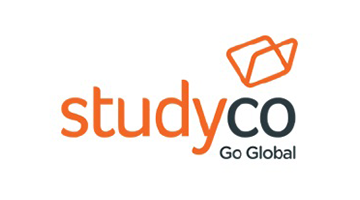
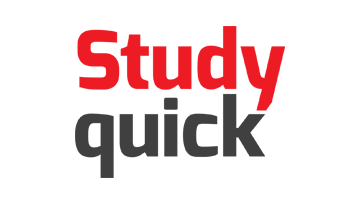
Add files via upload

Changed region(s): [[0.1528, 0.12, 0.825, 0.9]]

diff --git a/index.html b/index.html
@@ -7,7 +7,7 @@
 
 <!-- Favicons -->
 
-<link rel="shortcut icon" href="favicon.png">
+<link rel="shortcut icon" href="">
 <link rel="apple-touch-icon" href="apple-touch-icon.png">
 <link rel="apple-touch-icon" sizes="72x72" href="apple-touch-icon-72x72.png">
 <link rel="apple-touch-icon" sizes="114x114" href="apple-touch-icon-114x114.png">
@@ -57,7 +57,7 @@
 					<div class="container">
 	   		<div class="row">
 	   			<div class="col-md-12">
-	   		<img src="img/mainlogo.png" class="img-fluid" style="max-width: 100%;">
+	   		<img src="img/mainlogo.png" class="img-fluid" style="max-width: 100%;" width="400px" height="200px">
 	   		</div>
 	   	</div>
 	   	</div>
@@ -72,7 +72,7 @@
 				      	
 				      	<h2 style="text-align: center;">About&nbspUs</h2>
 				        	<div class="delimiter"><div></div></div>
-				        	<p class="font-weight-normal" style="text-align: center;">An Edu-services Group with an enviable national and international reputation, Shaheen stands tall as a leading beacon for innumerable students across India and elsewhere. Touching and transforming the many lives of students coming under its care and shaping their dreams into concrete realities, Shaheen Group is best known for its extraordinary quality coaching for NEET and other competitive/qualifying exams. Ever since its inception in 1989, owing to its innovation, learner-centric approach and irrefutable commitment Shaheen has grown exponentially: today the Group is a much acclaimed Learning Platform and a force to reckon with, in the Eduscape nationally and globally. With 50 centers across India and a little over 20000 students on roll, the Group is tirelessly marching along the path of excellence and success.<br><br>The Group has strong academic, philosophical and spiritual moorings, drawing its inspiration from the monumental works of the much celebrated poet Allama Iqbal, popularly known as The Poet of the East. Under the inspiring and dynamic leadership of Dr Abdul Qadeer, the Group aspires to orchestrate a magical transformation of the society, by empowering students with quality education, life-skills and positive orientation towards Life. Like the mythical bird Shaheen that appears in the work of Allama Iqbal, the Group constantly moves with tenacity of purpose, seeking and conquering new heights of excellence and glory.<br><br>In a nutshell, to call Shaheen as an Edu-services Group may not be fully correct.A Movement for empowering the academic community to embrace a life of nobility, excellence and success.
+				        	<p class="font-weight-normal" style="text-align: center;">
             </p>
 
 				         
@@ -104,8 +104,8 @@
 					      		
 
 					      		<figure class="team-profile-2"><a href="/shaheen-global">
-					      			<button class="btn btn-danger" style="background-color: red; padding: 11px 15px 0;">ADMISSION STARTED</button>
-					      			<div class="image-holder"><img alt="shaheen" src="img/shaheen.png" height="200px" style="border: solid; border-color: darkgray;"></div>
+					      			<button class="btn btn-danger" style="background-color: red; padding: 8px 15px 0;" id="adm">ADMISSION STARTED</button>
+					      			<div class="image-holder"><img alt="shaheen" src="img/shaheen.png" height="200px" style="border: solid; border-color: darkgray; border-width: 1px;"></div>
 					      			<figcaption>
 					      				<div class="profile-info">
 						      				<h3 class="profile-name">SHAHEEN GLOBAL</h3>
@@ -120,12 +120,12 @@
 					      			</a>
 					      		</figure>
 					      	</div>
-					      	<div class="col-base col-sm-6 col-md-4 wow flipInY" style="margin-top: 79px;">
+					      	<div class="col-base col-sm-6 col-md-4 wow flipInY" style="margin-top: 60px;">
 
 
 
 					      		<figure class="team-profile-2">
-					      			<div class="image-holder"><img alt="" src="img/happy.png" height="200px" style="border: solid; border-color: darkgray;"></div>
+					      			<div class="image-holder"><img alt="" src="img/happy.png" height="200px" style="border: solid; border-color: darkgray;border-width: 1px;"></div>
 					      			<figcaption>
 					      				<div class="profile-info">
 						      				<h3 class="profile-name">HAPPY GENIUS</h3>
@@ -140,12 +140,12 @@
 					      		
 					      		</figure>
 					      	</div>
-					      	<div class="col-base col-sm-6 col-md-4 wow flipInY" style="margin-top: 79px;">
+					      	<div class="col-base col-sm-6 col-md-4 wow flipInY" style="margin-top: 60px;">
 					      		<figure class="team-profile-2">
-					      			<div class="image-holder"><img alt="" src="img/study.png" height="200px" style="border: solid; border-color: darkgray;"></div>
+					      			<div class="image-holder"><img alt="" src="img/study.png" height="200px" style="border: solid; border-color: darkgray;border-width: 1px;"></div>
 					      			<figcaption>
 					      				<div class="profile-info">
-						      				<h3 class="profile-name">STUDY CO</h3>
+						      				<h3 class="profile-name">STUDY QUICK</h3>
 						      				<p class="profile-spec">Go Global</p>
 						      				<div class="team-social social-round">
 								   	   		<a href="#" class="fa fa-facebook"></a>
@@ -186,7 +186,7 @@
 							<h2 class="bottom-widget-title">Contact&nbspus</h2>
 							
 							<div class="text-content">
-								<p>CYBER CAMPUS EDU VENTURES LLP<br>
+								<p><span style="color: white; font-weight: 200px; font-size: large;">CYBER CAMPUS EDU VENTURES LLP</span><br>
 									Kanholi Raghavan Nair Road, Opp. Mini Bypass<br>
 									Puthiyara P O, Calicut 673 004, Kerala
 									<br>
